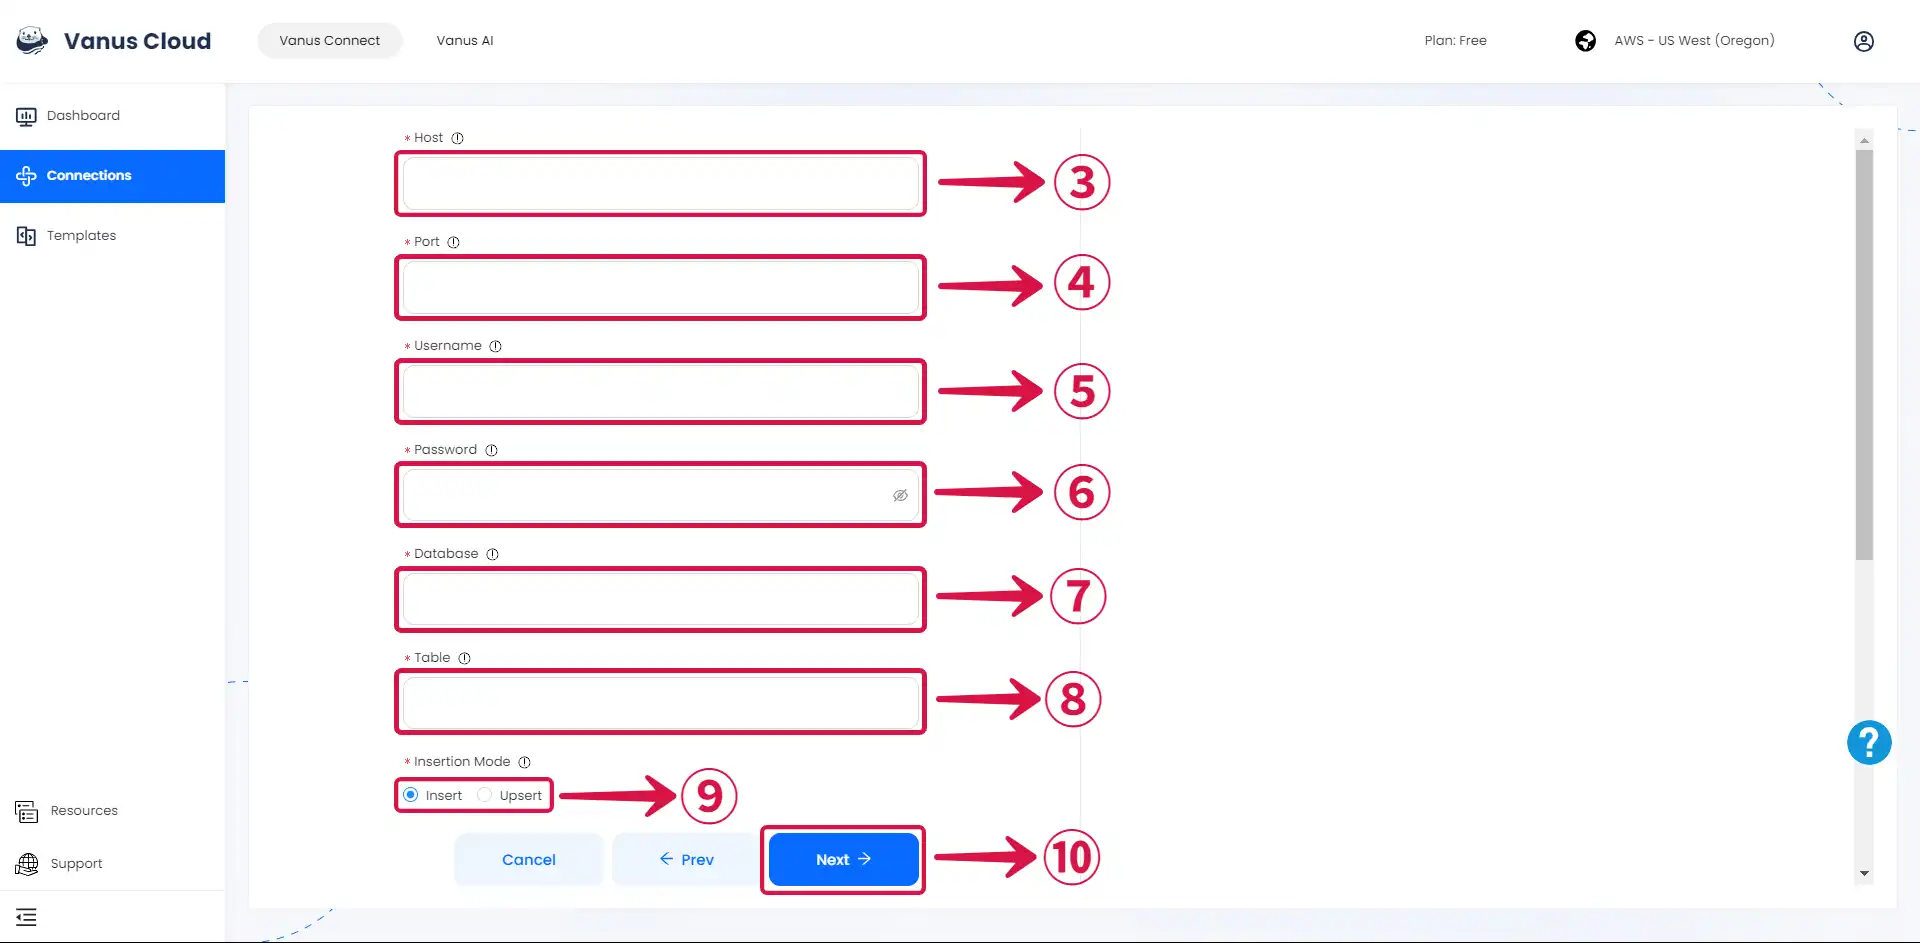
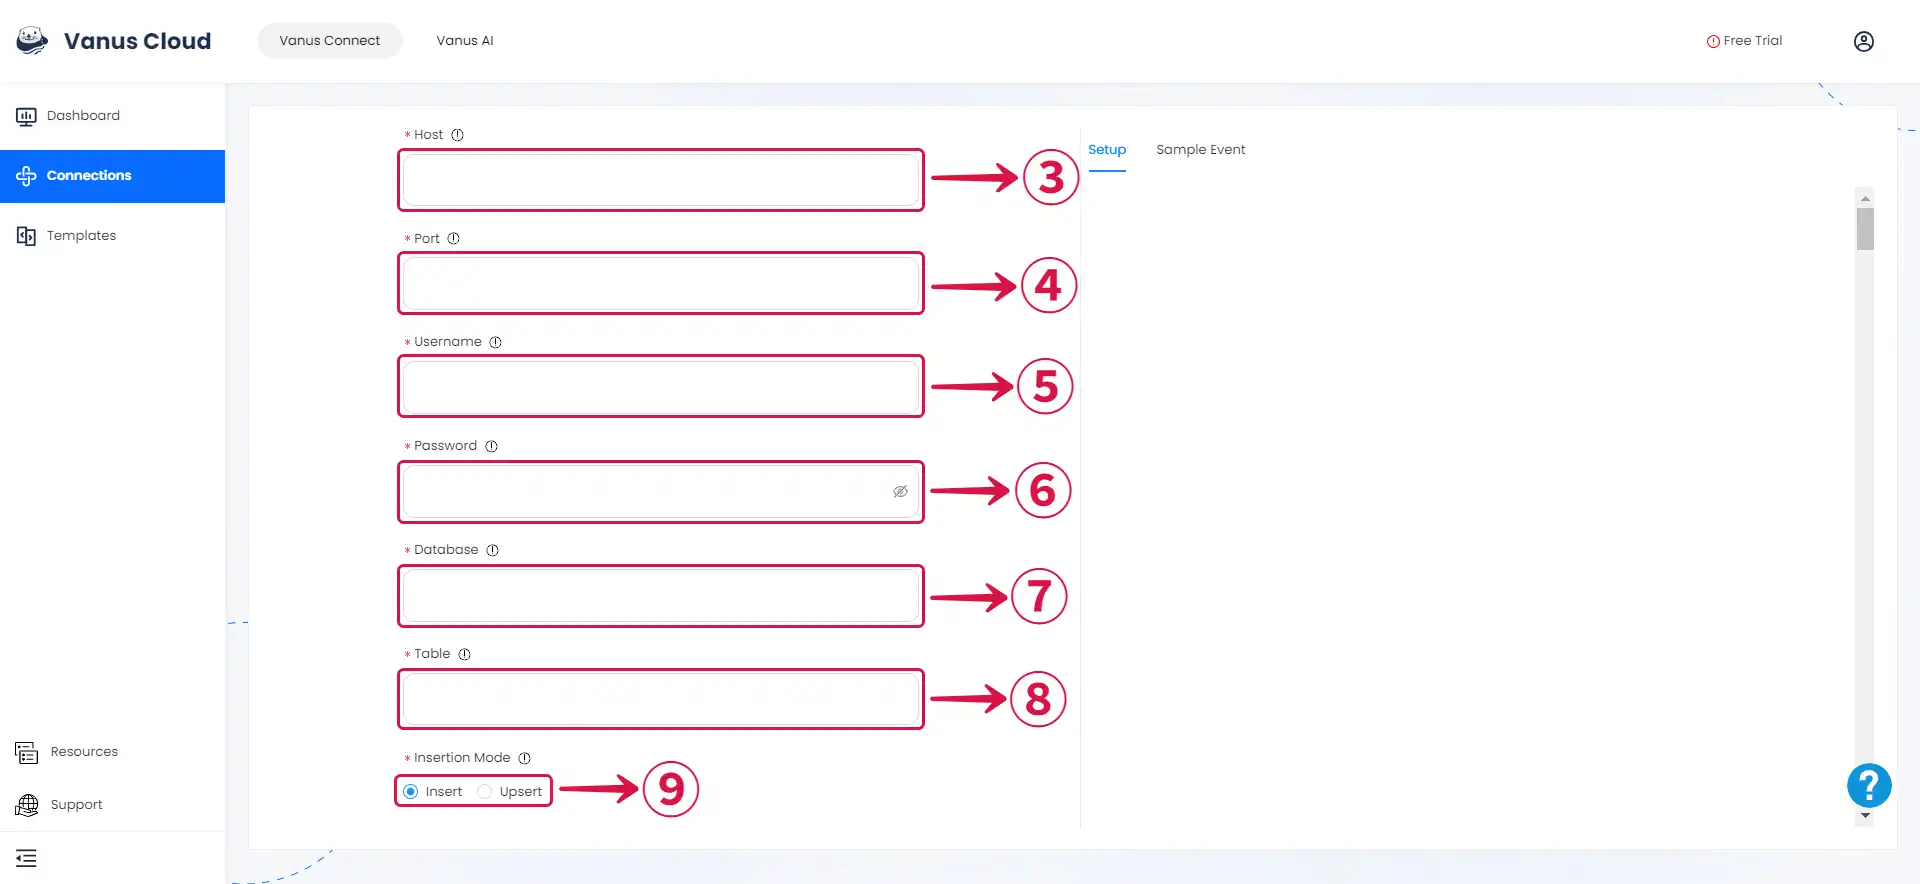
Slack Fix

diff --git a/content/cloud-docs/sink/aws-rds-mysql/setup.md b/content/cloud-docs/sink/aws-rds-mysql/setup.md
@@ -133,7 +133,24 @@ Now you can connect to your server and create a table.
 - **Database⑦:** The initial database name.
 - **Table⑧:** The name of the table you want your events to be sent to.
 - Choose the **Insertion Mode**⑨.
-- Click **Next**⑩ and finish the configurations.
+
+### Personalize Event Structure
+
+:::note
+This is a general instruction on how to personalize your event structure. You can structure your events to suit your specific requirements and create connections for different scenarios.
+:::
+
+1. Click on **Display sample events**① for reference and click on **Add More**② to add events.
+
+![aws-mysql-sink-20](images/aws-mysql-sink-20.webp)
+
+2. **Input key**③ and search for the corresponding **value**④ for the event you want.
+
+![aws-mysql-sink-21](images/aws-mysql-sink-21.webp)
+
+3. You can fill in as many **key-value pairs**⑤ as you wish to receive. And then click **Submit**⑥ to finish the configuration process.
+
+![aws-mysql-sink-22](images/aws-mysql-sink-22.webp)
 
 ---
 

diff --git a/content/vanus-connect/connector-guides/sink/aws-rds-mysql/setup.md b/content/vanus-connect/connector-guides/sink/aws-rds-mysql/setup.md
@@ -138,7 +138,24 @@ Now you can connect to your server and create a table.
 - **Database⑦:** The initial database name.
 - **Table⑧:** The name of the table you want your events to be sent to.
 - Choose the **Insertion Mode**⑨.
-- Click **Next**⑩ and finish the configurations.
+
+### Personalize Event Structure
+
+:::note
+This is a general instruction on how to personalize your event structure. You can structure your events to suit your specific requirements and create connections for different scenarios.
+:::
+
+1. Click on **Display sample events**① for reference and click on **Add More**② to add events.
+
+![aws-mysql-sink-20](images/aws-mysql-sink-20.webp)
+
+2. **Input key**③ and search for the corresponding **value**④ for the event you want.
+
+![aws-mysql-sink-21](images/aws-mysql-sink-21.webp)
+
+3. You can fill in as many **key-value pairs**⑤ as you wish to receive. And then click **Submit**⑥ to finish the configuration process.
+
+![aws-mysql-sink-22](images/aws-mysql-sink-22.webp)
 
 ---
 

diff --git a/content/vanus-connect/connector-guides/sink/slack/setup.md b/content/vanus-connect/connector-guides/sink/slack/setup.md
@@ -23,7 +23,7 @@ Before forwarding events to Slack, you must have:
 To set up an app for receiving events in your Slack channel:
 
 :::note
-If you have created a Slack App already, you can skip Step 1 and directly go to [**Step 2**](#step-2-create-an-incoming-webhook).
+If you have created a Slack App already, you can skip Step 1 and directly go to [**Step 2**](#step-2-create-an-incoming-webhook). But ensure that you avoid using the same Slack app for both your Slack source and Slack webhook connections.
 :::
 
 ### Step 1: Create a Slack App
